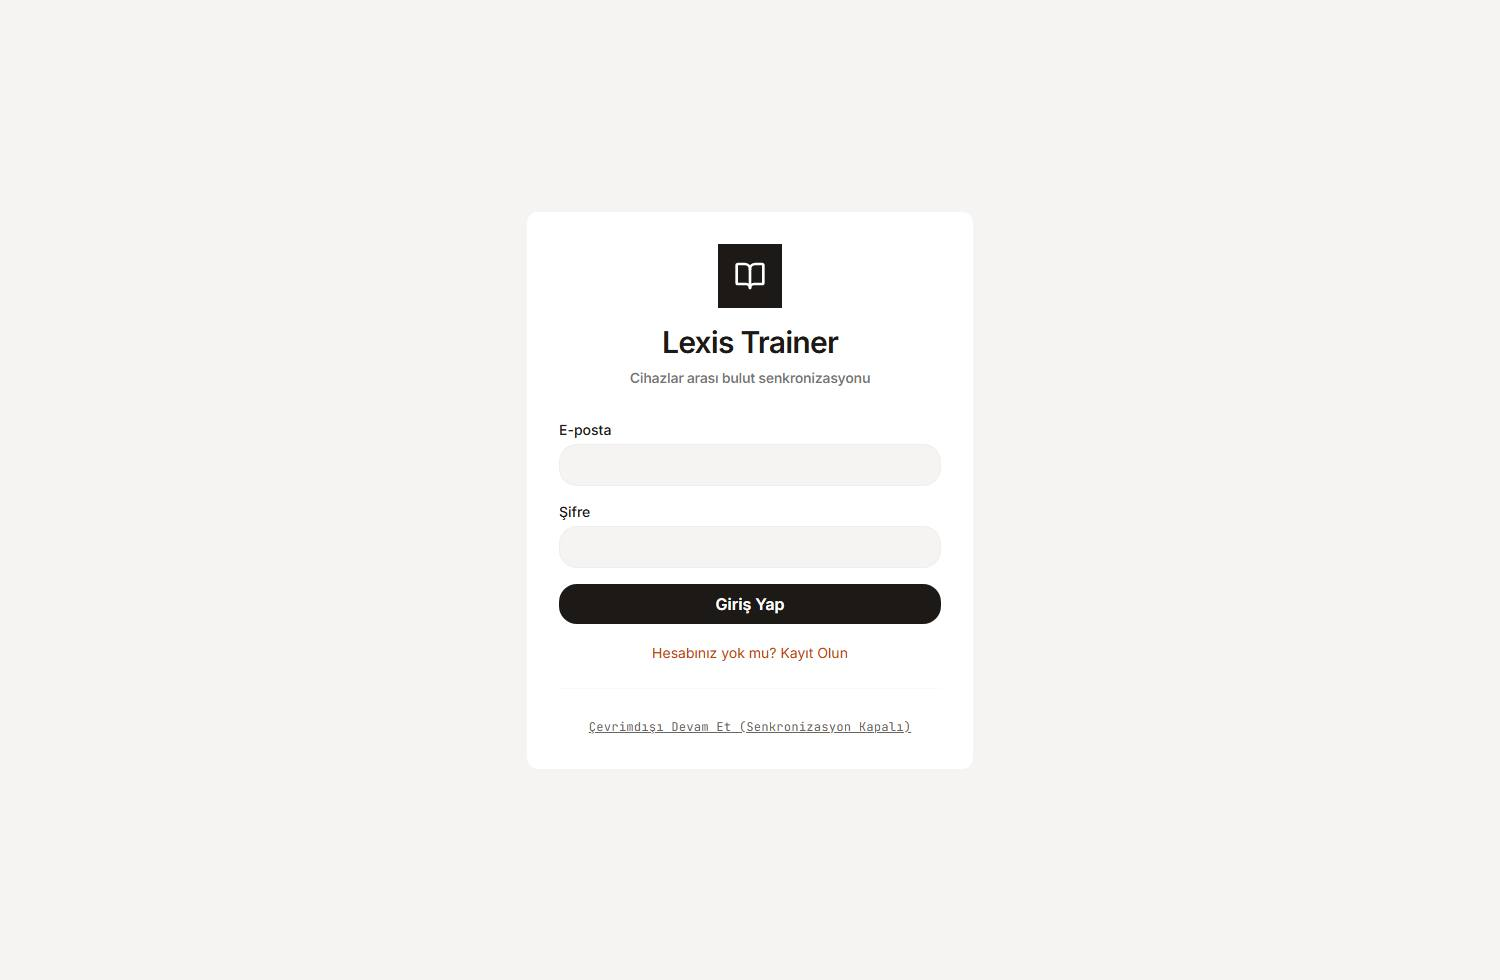
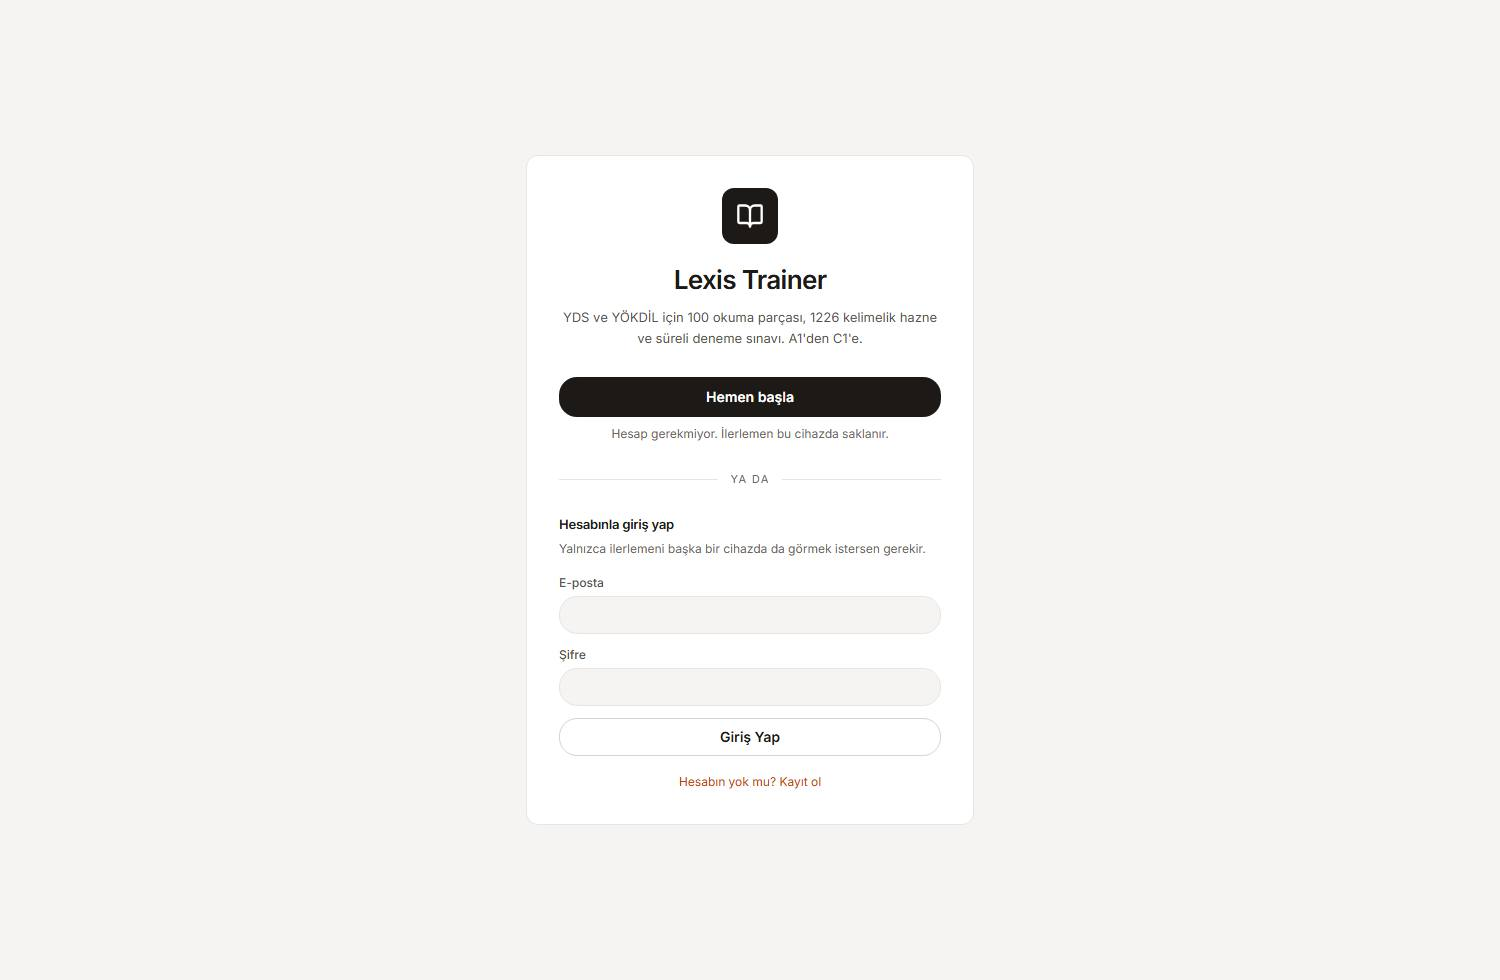
fix: stop greeting first-time visitors with a login wall
The reading app opens on a screen with an email field, a password field
and a large filled "Giriş Yap". The one way in that needs nothing -
"Çevrimdışı Devam Et (Senkronizasyon Kapalı)" - sat at the very bottom in
the smallest type on the screen, grey, underlined, monospace, and named
in the system's language rather than the reader's.

Nothing on that screen said what the site was, either. The subtitle read
"Cihazlar arası bulut senkronizasyonu", which describes a property of the
account, not the product. A stranger could not tell they were looking at
an English study app.

None of this is what the app actually requires: every feature works with
no account at all. The account exists for exactly one thing, seeing the
same progress on a second device. The screen now says so and the
hierarchy matches:

  - a line naming what this is (YDS/YÖKDİL, 100 passages, 1226 words)
  - "Hemen başla" as the filled primary action, with "Hesap gerekmiyor"
    under it
  - the account below a divider, as a bordered secondary button, with one
    line saying what it is for

The sign-up path also stops using a browser alert() to confirm success;
it says it on the page, in the page's own voice.

The guide is updated in the same commit, text and screenshot. It quotes
control names exactly so a reader can search for the words they see, and
that is precisely why renaming a button makes the guide wrong - DURUM.md
already warns about this. Zero occurrences of the old name remain.
[…]

diff --git a/apps/reading/src/components/AuthScreen.tsx b/apps/reading/src/components/AuthScreen.tsx
@@ -2,17 +2,38 @@ import { useState, FormEvent } from 'react';
 import { supabase } from '../lib/supabase';
 import { BookOpen } from 'lucide-react';
 
+/**
+ * KARŞILAMA EKRANI
+ *
+ * BU BİR GİRİŞ DUVARI DEĞİL, olmamalı da: uygulamanın tamamı hesapsız
+ * çalışıyor. Hesap yalnızca ilerlemeyi ikinci bir cihazda görmeye yarıyor.
+ *
+ * Bir süre öyle görünüyordu ve gerçek bir maliyeti oldu: ekran e-posta,
+ * şifre ve dolu siyah bir "Giriş Yap" düğmesiyle açılıyordu; hesapsız
+ * girmenin yolu ise en altta, en küçük puntoda, gri ve tek aralıklı
+ * yazıyla duruyordu — üstelik adı "Çevrimdışı Devam Et (Senkronizasyon
+ * Kapalı)" idi, yani kullanıcının değil sistemin diliyle. Siteyi ilk kez
+ * açan biri duvarı görüp geri dönüyordu.
+ *
+ * Şimdi hiyerarşi işin gerçeğine uyuyor:
+ *   - Ne olduğunu söyleyen bir cümle (eskiden yoktu: alt başlık ürünü
+ *     değil hesabın bir özelliğini anlatıyordu).
+ *   - Birincil eylem HESAPSIZ BAŞLAMAK, dolu mürekkep düğme.
+ *   - Hesap ikincil: kenarlıklı düğme, ve ne işe yaradığı yazıyor.
+ */
 export default function AuthScreen({ onContinueOffline }: { onContinueOffline: () => void }) {
   const [email, setEmail] = useState('');
   const [password, setPassword] = useState('');
   const [isLogin, setIsLogin] = useState(true);
   const [loading, setLoading] = useState(false);
   const [error, setError] = useState<string | null>(null);
+  const [notice, setNotice] = useState<string | null>(null);
 
   const handleSubmit = async (e: FormEvent) => {
     e.preventDefault();
     setLoading(true);
     setError(null);
+    setNotice(null);
     try {
       if (isLogin) {
         const { error } = await supabase.auth.signInWithPassword({ email, password });
@@ -20,8 +41,11 @@ export default function AuthScreen({ onContinueOffline }: { onContinueOffline: (
       } else {
         const { error } = await supabase.auth.signUp({ email, password });
         if (error) throw error;
-        alert('Kayıt başarılı! Lütfen giriş yapın.');
+        /* Eskiden burada bir tarayıcı alert'i vardı. Sayfanın kendi
+           diliyle konuşan bir bildirim, sistemin kutusundan iyi. */
+        setNotice('Kayıt tamam. Şimdi aynı bilgilerle giriş yapabilirsin.');
         setIsLogin(true);
+        setPassword('');
       }
     } catch (err: any) {
       setError(err.message || 'Bir hata oluştu.');
@@ -32,69 +56,112 @@ export default function AuthScreen({ onContinueOffline }: { onContinueOffline: (
 
   return (
     <div className="min-h-screen bg-paper flex flex-col justify-center items-center p-4">
-      <div className="max-w-md w-full bg-paper-2 p-8 border border-hairline/40 rounded-xl">
-        <div className="flex flex-col items-center mb-8">
-          <div className="w-16 h-16 bg-accent flex items-center justify-center mb-4">
-            <BookOpen className="h-8 w-8 text-white" />
+      <div className="w-full max-w-md rounded-xl border border-hairline bg-paper-2 p-8">
+
+        <div className="flex flex-col items-center text-center">
+          <div className="mb-4 flex h-14 w-14 items-center justify-center rounded-xl bg-accent">
+            <BookOpen className="h-7 w-7 text-white" />
           </div>
-          <h1 className="text-3xl font-display font-semibold text-ink tracking-tight text-center">
+          <h1 className="font-display text-[26px] font-semibold tracking-tight text-ink">
             Lexis Trainer
           </h1>
-          <p className="text-sm text-ink/60 mt-2 text-center font-display">
-            Cihazlar arası bulut senkronizasyonu
+          {/* Siteyi ilk kez açan biri ne olduğunu buradan anlamalı. */}
+          <p className="mt-2 text-[13px] leading-relaxed text-ink-2">
+            YDS ve YÖKDİL için 100 okuma parçası, 1226 kelimelik hazne ve
+            süreli deneme sınavı. A1'den C1'e.
           </p>
         </div>
 
-        <form onSubmit={handleSubmit} className="space-y-4">
-          {error && <div className="p-3 bg-danger-soft text-danger text-sm border border-danger-line rounded-lg">{error}</div>}
-          
+        {/* BİRİNCİL YOL: hesapsız başlamak. */}
+        <button
+          type="button"
+          onClick={onContinueOffline}
+          className="mt-7 w-full rounded-lg bg-accent py-2.5 text-sm font-semibold text-white
+            transition-colors duration-150 hover:bg-accent-700 cursor-pointer"
+        >
+          Hemen başla
+        </button>
+        <p className="mt-2 text-center text-[12px] text-ink-3">
+          Hesap gerekmiyor. İlerlemen bu cihazda saklanır.
+        </p>
+
+        <div className="my-7 flex items-center gap-3">
+          <span className="h-px flex-1 bg-hairline" />
+          <span className="text-[11px] uppercase tracking-[0.12em] text-ink-3">ya da</span>
+          <span className="h-px flex-1 bg-hairline" />
+        </div>
+
+        {/* İKİNCİL YOL: hesap. Ne işe yaradığı yazıyor, çünkü tek işi bu. */}
+        <h2 className="text-[13px] font-semibold text-ink">
+          {isLogin ? 'Hesabınla giriş yap' : 'Yeni hesap aç'}
+        </h2>
+        <p className="mt-1 text-[12px] leading-relaxed text-ink-3">
+          Yalnızca ilerlemeni başka bir cihazda da görmek istersen gerekir.
+        </p>
+
+        <form onSubmit={handleSubmit} className="mt-4 space-y-3">
+          {error && (
+            <div className="rounded-lg border border-danger-line bg-danger-soft p-3 text-[12px] text-danger">
+              {error}
+            </div>
+          )}
+          {notice && (
+            <div className="rounded-lg border border-ok-line bg-ok-soft p-3 text-[12px] text-ok">
+              {notice}
+            </div>
+          )}
+
           <div>
-            <label className="block text-sm font-medium text-ink mb-1">E-posta</label>
-            <input 
-              type="email" 
-              required 
+            <label htmlFor="eposta" className="mb-1 block text-[12px] font-medium text-ink-2">
+              E-posta
+            </label>
+            <input
+              id="eposta"
+              type="email"
+              required
+              autoComplete="email"
               value={email}
               onChange={(e) => setEmail(e.target.value)}
-              className="w-full p-2 border border-hairline/40 focus:outline-none focus:border-accent bg-paper rounded-lg"
-            />
-          </div>
-          
-          <div>
-            <label className="block text-sm font-medium text-ink mb-1">Şifre</label>
-            <input 
-              type="password" 
-              required 
-              value={password}
-              onChange={(e) => setPassword(e.target.value)}
-              className="w-full p-2 border border-hairline/40 focus:outline-none focus:border-accent bg-paper rounded-lg"
+              className="w-full rounded-lg border border-hairline bg-paper p-2 text-sm text-ink
+                focus:border-accent focus:outline-none"
             />
           </div>
 
-          <button 
-            type="submit" 
+          <div>
+            <label htmlFor="sifre" className="mb-1 block text-[12px] font-medium text-ink-2">
+              Şifre
+            </label>
+            <input
+              id="sifre"
+              type="password"
+              required
+              autoComplete={isLogin ? 'current-password' : 'new-password'}
+              value={password}
+              onChange={(e) => setPassword(e.target.value)}
+              className="w-full rounded-lg border border-hairline bg-paper p-2 text-sm text-ink
+                focus:border-accent focus:outline-none"
+            />
+          </div>
+
+          {/* Kenarlıklı: bu ekranın birincil eylemi yukarıdaki. */}
+          <button
+            type="submit"
             disabled={loading}
-            className="w-full bg-accent text-white py-2 font-semibold hover:bg-accent/90 transition-colors disabled:opacity-50 rounded-lg"
+            className="w-full rounded-lg border border-hairline-2 bg-paper-2 py-2 text-sm
+              font-semibold text-ink transition-colors duration-150
+              hover:bg-paper-3 disabled:opacity-50 cursor-pointer"
           >
-            {loading ? 'Bekleyiniz...' : (isLogin ? 'Giriş Yap' : 'Kayıt Ol')}
+            {loading ? 'Bekleyiniz...' : isLogin ? 'Giriş Yap' : 'Kayıt Ol'}
           </button>
         </form>
 
-        <div className="mt-4 text-center">
-          <button 
-            type="button" 
-            onClick={() => setIsLogin(!isLogin)}
-            className="text-sm text-brand hover:underline"
-          >
-            {isLogin ? 'Hesabınız yok mu? Kayıt Olun' : 'Zaten hesabınız var mı? Giriş Yapın'}
-          </button>
-        </div>
-
-        <div className="mt-6 pt-6 border-t border-hairline/20 text-center">
+        <div className="mt-3 text-center">
           <button
-            onClick={onContinueOffline}
-            className="text-xs text-ink-3 hover:text-ink underline font-mono tracking-wide"
+            type="button"
+            onClick={() => { setIsLogin(!isLogin); setError(null); setNotice(null); }}
+            className="text-[12px] text-brand hover:underline cursor-pointer"
           >
-            Çevrimdışı Devam Et (Senkronizasyon Kapalı)
+            {isLogin ? 'Hesabın yok mu? Kayıt ol' : 'Zaten hesabın var mı? Giriş yap'}
           </button>
         </div>
       </div>

diff --git a/apps/reading/public/kilavuz/index.html b/apps/reading/public/kilavuz/index.html
@@ -596,12 +596,12 @@ html { scroll-behavior: smooth; }
   <div class="alt">
     <h3>Hesap açmana gerek yok</h3>
     <p class="olcu">
-      Okuma &amp; Kelime tarafı bir giriş ekranıyla açılır. Alt taraftaki
-      <span class="ui">Çevrimdışı Devam Et (Senkronizasyon Kapalı)</span> bağlantısına basarsan
-      hiçbir bilgi vermeden kullanmaya başlarsın. Hesap yalnızca <em>aynı ilerlemeyi başka bir
-      cihazda</em> görmek istersen gerekir.
+      Okuma &amp; Kelime tarafı bir karşılama ekranıyla açılır. Oradaki
+      <span class="ui">Hemen başla</span> düğmesine bas — hiçbir bilgi vermeden, hesap açmadan
+      kullanmaya başlarsın ve <b>bütün özellikler açık kalır</b>. Hesap yalnızca
+      <em>aynı ilerlemeyi başka bir cihazda</em> görmek istersen gerekir.
     </p>
-    <figure><img src="g/rea-00-giris.jpg" width="1500" height="980" alt="Giriş ekranı. Hesap açmak istemiyorsan alttaki Çevrimdışı Devam Et bağlantısı yeter — bütün özellikler açık kalır, yalnızca ilerlemen o cihazda kalır." loading="lazy" decoding="async"><figcaption>Giriş ekranı. Hesap açmak istemiyorsan alttaki <b>Çevrimdışı Devam Et</b> bağlantısı yeter — bütün özellikler açık kalır, yalnızca ilerlemen o cihazda kalır.</figcaption></figure>
+    <figure><img src="g/rea-00-giris.jpg" width="1500" height="980" alt="Karşılama ekranı. Üstteki dolu düğme Hemen başla: hesapsız giriş. Altındaki e-posta alanları yalnızca ilerlemeni ikinci bir cihaza taşımak isteyenler " loading="lazy" decoding="async"><figcaption>Karşılama ekranı. Üstteki dolu düğme <b>Hemen başla</b>: hesapsız giriş. Altındaki e-posta alanları yalnızca ilerlemeni ikinci bir cihaza taşımak isteyenler için.</figcaption></figure>
   </div>
 </section>
 
@@ -1213,7 +1213,7 @@ html { scroll-behavior: smooth; }
     <summary>İlerlememi başka bilgisayarda göremiyorum</summary>
     <div class="cevap">
       <p>
-        <span class="ui">Çevrimdışı Devam Et</span> ile girdiysen bütün veriler yalnızca o cihazda
+        <span class="ui">Hemen başla</span> ile girdiysen bütün veriler yalnızca o cihazda
         tutulur; aktarmak için bir kod yoktur. Aynı ilerlemeyi başka bir cihazda görmek için
         her iki cihazda da aynı hesapla giriş yapman gerekir.
       </p>
